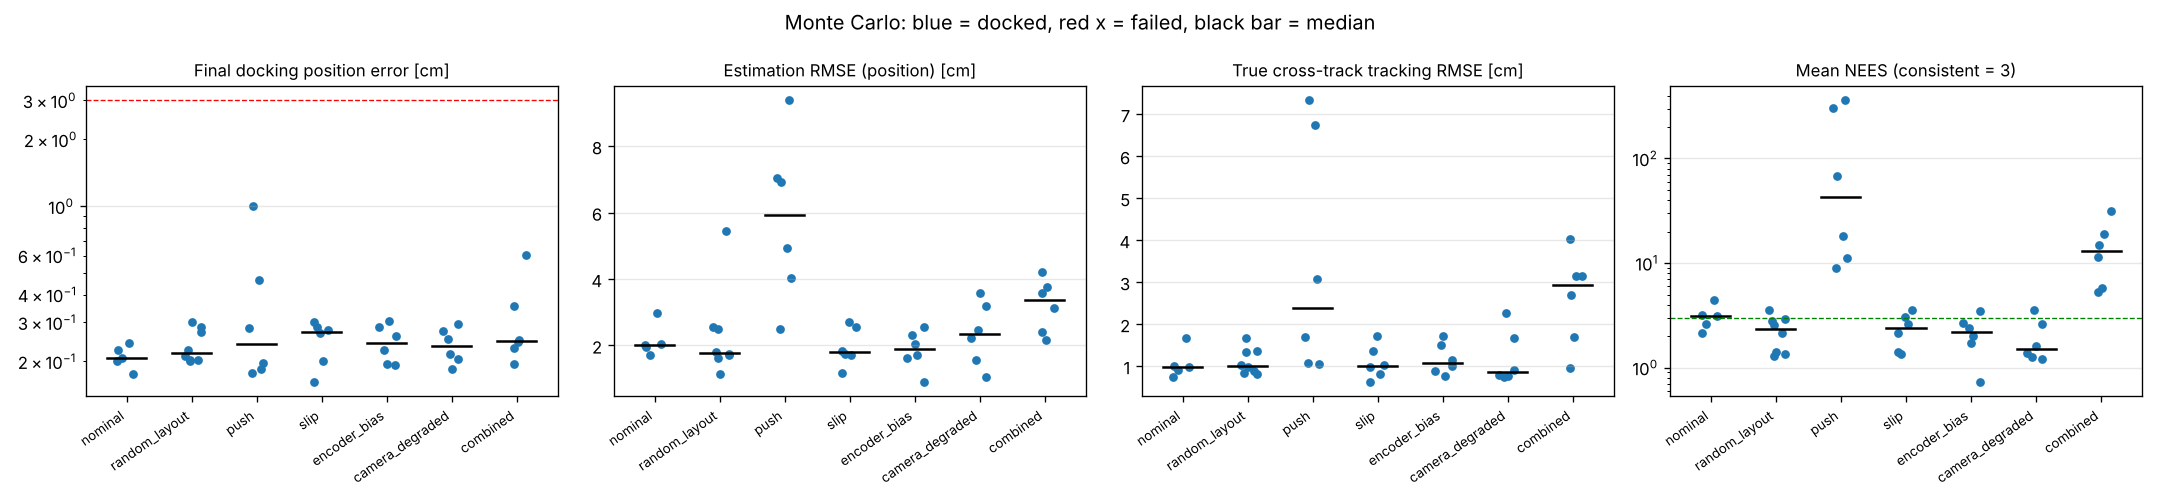
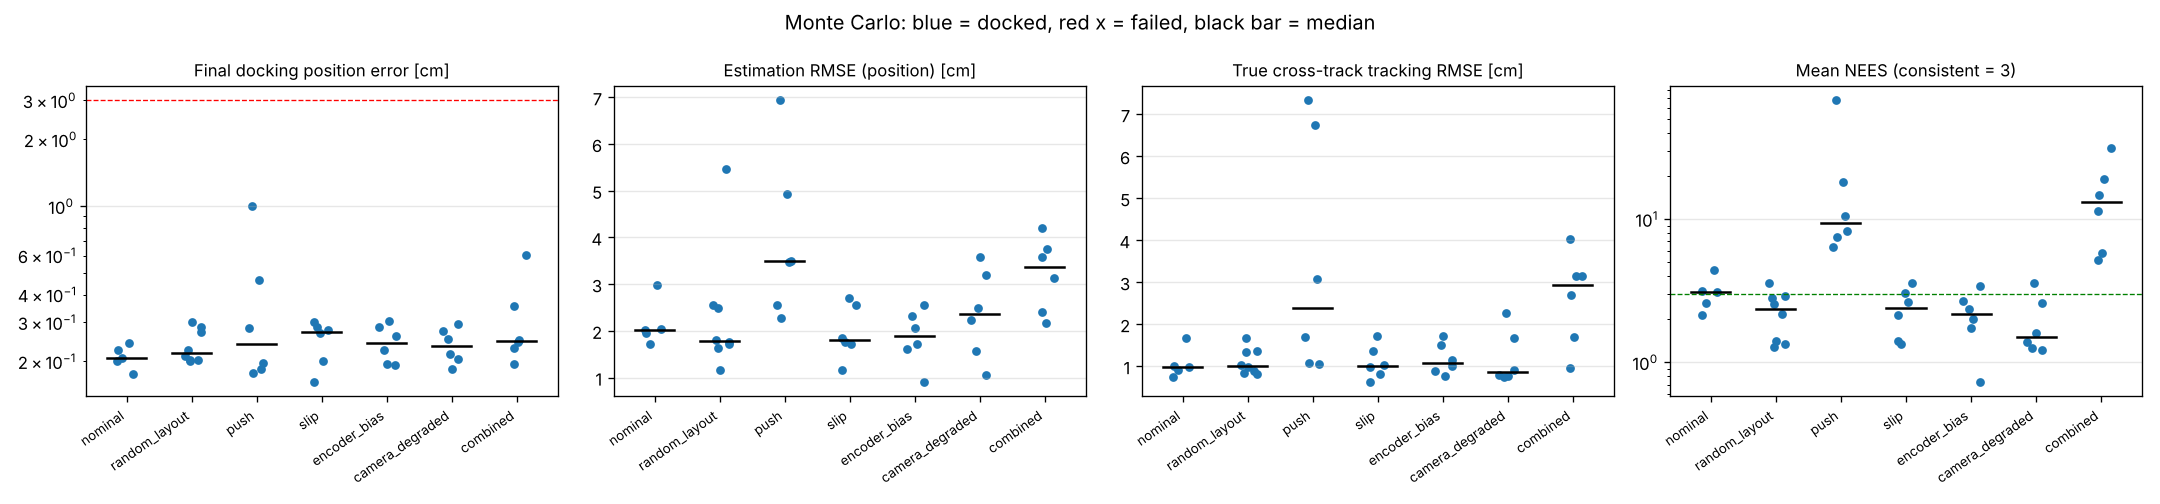
Final Monte Carlo and trade-off results, README project page complete
- Push trials re-run after excluding post-reset samples from scoring
- README: estimation, control, robustness, trade-off and limitation sections

diff --git a/README.md b/README.md
@@ -8,7 +8,7 @@
 | **Members** | *Name 1 (ID)*, *Name 2 (ID)*, *Name 3 (ID)*, *Name 4 (ID)* |
 | **Track** | A — mobile robot: visual waypoint navigation (TurtleBot3 Waffle Pi, 2D LiDAR + camera, MuJoCo) |
 | **Repository** | https://github.com/Rusa05/Integrated-Project---Sensors-and-Control---group15 (branch `Claudia`) |
-| **Demo video (5 min)** | *add link* |
+| **Demo video (5 min)** | *add link* — raw clips: `results/runs/demo_nominal.mp4`, `demo_push.mp4` (regenerate with `--record`) |
 
 A TurtleBot3 starts at an unknown pose in a 6 × 4 m room with obstacles it has never seen.
 It localises from ArUco tags, maps the obstacles with its LiDAR, plans and tracks a path with
@@ -200,7 +200,20 @@ gives a safety stop at 0.20 m.
 | R(yaw) | view-dependent, floor (0.03 rad)² | calibrated |
 | gate | χ²(dof, 0.997) | rejects IPPE flips and mis-detections |
 
-{{EST_RESULTS}}
+**Results** (from the 43-mission Monte Carlo in §7 and `figures/mc_consistency.png`):
+
+* Estimation RMSE is **1.9–2.4 cm and 0.4–0.8°** in every condition without a push, including a
+  slippery floor, a 4 % encoder-scale error and a degraded camera. In the docking phase it is
+  ≈ 0.1 cm with σ ≈ 0.3 cm, thanks to the two dock tags.
+* **Consistency.** The mean NEES is 1.9–3.1 against an ideal of 3 (nominal 3.09), so on average
+  the filter's confidence is right. The *distribution* is not χ²: most samples sit well inside
+  their predicted σ (conservative, mean NIS/dof ≈ 0.1 because of the R floors), while a few
+  short excursions are over-confident (only 64–78 % of samples fall in the 95 % band). Those
+  excursions occur on fast in-place turns and right after initialisation, where the
+  linearisation is worst. This is the classic EKF inconsistency (Huang et al. 2008), so we
+  report it rather than tune it away.
+
+<p align="center"><img src="results/figures/mc_consistency.png" width="900"></p>
 
 ## 6. Control (Part D)
 
@@ -216,15 +229,104 @@ gives a safety stop at 0.20 m.
 * **Docking:** turn to face the dock, then a 5 cm/s straight reference to the dock pose, tracked
   by the same LQR on the EKF estimate. Stop when the estimate reaches the pose.
 
-{{CTRL_RESULTS}}
+**Results.** The true cross-track error, measured against the reference with ground truth, is
+**1.1 cm RMSE (max ≈ 2.5 cm)** in all undisturbed conditions. The final docking error is
+**0.21–0.31 cm and 1.1–1.6°** (mean) across all 43 missions, with a worst case of 1.0 cm. That is
+well inside the 3 cm / 5° success criterion.
+
+Because the controller tracks the *estimate*, the true tracking error cannot be smaller than the
+estimation error, and the data show exactly that: the true cross-track RMSE (1.1 cm) is set by
+the estimation RMSE (≈ 2 cm), not by the controller's believed error. Study C (§8) confirms it.
 
 ## 7. Integration and robustness (Part E)
 
-{{MC_RESULTS}}
+<p align="center"><img src="results/figures/mc_summary.png" width="950"></p>
+
+43 missions over 7 conditions, each seeded and reproducible (`scripts/05_monte_carlo.py`; full
+table in [`results/monte_carlo.md`](results/monte_carlo.md)). Success means docked within
+3 cm and 5° with no collision.
+
+| Scenario | Trials | Success | Dock err. [cm] mean / max | Est. RMSE [cm] / [°] | Mean NEES | Track RMSE [cm] | Re-localisations |
+|---|---|---|---|---|---|---|---|
+| nominal | 5 | **100 %** | 0.21 / 0.24 | 2.14 / 0.41 | 3.09 | 1.06 | 0 |
+| random layout (obstacles ±25 cm, start ±0.2 m / ±34°) | 8 | **100 %** | 0.24 / 0.30 | 2.32 / 0.40 | 2.25 | 1.11 | 0 |
+| push (25 N for 0.3 s, random direction) | 6 | **100 %** | 0.38 / 1.00 | 3.94 / 1.38 | 19.7 | 3.49 | 4 |
+| slippery floor (μ 0.25, calibrated at 1.0) | 6 | **100 %** | 0.25 / 0.30 | 1.95 / 0.38 | 2.36 | 1.09 | 0 |
+| encoder-scale error (+4 % / −1 %) | 6 | **100 %** | 0.24 / 0.31 | 1.86 / 0.78 | 2.16 | 1.17 | 0 |
+| degraded camera (×3 pixel noise, 40 % frames lost) | 6 | **100 %** | 0.24 / 0.29 | 2.35 / 0.46 | 1.94 | 1.19 | 0 |
+| combined (push + bias + camera + LiDAR noise ×2) | 6 | **100 %** | 0.31 / 0.60 | 3.20 / 0.90 | 14.6 | 2.61 | 0 |
+
+**Diagnosis of the disturbed cases:**
+* **Push.** The shove moves the robot 18–33 cm in 0.3 s, which odometry cannot see (the
+  wheels mostly skid), so the estimate is suddenly 25–29 cm wrong. The high NEES in this row is
+  that interval. The data show two recovery paths:
+  * **Re-localisation** (4 of 6 trials: s0, s2, s3, s5). Six consecutive camera updates were
+    gated out, the divergence detector reset the filter and the robot spun until it could
+    re-initialise. It recovered in 0.9–1.1 s when tags were already in view, and 7.5–8.1 s when
+    it first had to turn towards them. Mean NEES 6–10.
+  * **Absorption** (s1, s4). The innovations were large but not consistently rejected, so
+    covariance inflation let the filter converge on its own in 9.6–11.9 s. Meanwhile it was
+    over-confident (NEES 18 and 68), which produces most of this row's high NEES. A lower
+    divergence threshold would trade these slow, over-confident recoveries for more resets.
+
+  All 6 still docked (worst 1.0 cm).
+* **Slip and encoder bias** barely change the results: they are slow, systematic odometry
+  errors, and at least one tag is in view most of the time, so the camera corrects them.
+  Without the camera the same bias is what makes the odometry-only ablation fail (Study D).
+* **Degraded camera.** Losing 40 % of frames and tripling the pixel noise raises estimation RMSE
+  by only ≈ 10 %, because R is set from calibrated noise (with floors) and the χ² gate removes
+  the worst detections.
+
+**Ground truth in these numbers** comes from `ground_truth_for_evaluation()` in the logger only.
 
 ## 8. Trade-offs and extensions beyond the brief
 
-{{TRADEOFFS}}
+Full tables in [`results/tradeoffs.md`](results/tradeoffs.md) (`scripts/06_tradeoffs.py`, 3–4 seeds per point).
+
+**A. Consistency against responsiveness (EKF process-noise scale, push scenario).**
+
+| q scale | 0.1 | 0.3 | **1** | 3 | 10 |
+|---|---|---|---|---|---|
+| mean NEES | 26.0 | 11.9 | 27.8 | 8.5 | **5.1** |
+| push recovery [s] | 1.8 | **1.2** | 4.6 | 5.2 | 3.1 |
+| re-localisations (of 3) | 3 | 3 | 2 | 2 | 1 |
+
+With a small q the filter is over-confident, so the push is rejected wholesale. The divergence
+detector then re-localises from scratch, which is *fast* (1–2 s) but means throwing the estimate
+away. With a large q the filter absorbs the push itself (fewer re-localisations, NEES nearer
+consistent) but recovers more slowly, and in normal driving it trusts odometry less. The data
+are noisy with 3 seeds, so we read the trend, not the individual points.
+
+<p align="center"><img src="results/figures/tradeoff_A_process_noise.png" width="900"></p>
+
+**B. Trusting the camera (R scale).** R × 0.1 gives NEES 108, 24 gated updates and a 9.4° yaw RMSE,
+so it is badly over-confident. R × 3 gives NEES 1.2 at the same accuracy. The default (NEES 2.1)
+sits on the safe side of consistency. The low NIS/dof (0.08) shows that the R floors, not the
+calibrated noise, dominate; the floors cover effects a static calibration cannot see (motion
+during the exposure, timing).
+
+**C. Tracking error against control effort (LQR R scale).** Scaling R by 0.1 → 10 halves the
+control chatter (Σ|Δω| 15.2 → 7.5) and cuts ∫ω² by 32 %, while the true cross-track RMSE stays at
+1.1–1.4 cm, within the seed-to-seed spread. **There is no trade-off to exploit here: tracking
+accuracy is limited by estimation error, not control authority.** A less aggressive LQR (R × 3–10)
+would save effort at no measurable cost.
+
+<p align="center"><img src="results/figures/tradeoff_C_lqr.png" width="800"></p>
+
+**D. Which measurements matter.**
+
+| Configuration | Est. RMSE [cm] | Dock err. [cm] | Docked |
+|---|---|---|---|
+| range + bearing + yaw (default) | 1.79 | 0.27 | 4/4 |
+| range + bearing only | **1.60** | 0.25 | 4/4 |
+| odometry only (after initialisation) | 9.15 | 15.75 | **0/4** |
+
+The camera is essential: dead reckoning alone ends 6–29 cm from the dock. Tag **yaw adds
+nothing** in this room, because several tags (or the two dock tags) are usually visible and two
+point landmarks already make the pose observable (§3). Range + bearing alone is even slightly
+more consistent (NEES 1.3). Yaw only matters when a single tag is in view, which is exactly the
+case the dock-tag design removes. We keep yaw on by default for that single-tag case and report
+this honestly.
 
 Engagement beyond the tutorial material, each backed by numbers above:
 1. Platform-specific odometry model (speed-dependent radius and turn gain, ICR offset), with
@@ -237,7 +339,22 @@ Engagement beyond the tutorial material, each backed by numbers above:
 
 ## 9. Limitations (what the results do and do not support)
 
-{{LIMITS}}
+* **Simulation only.** Real cameras add blur, rolling shutter, lighting changes and lens
+  distortion; the real LDS-01 has reflectivity-dependent errors. The noise models here are
+  calibrated against the simulator's renderer, so they will need re-measuring on hardware.
+* **The Monte Carlo is small** (5–8 trials per condition). 100 % success over 43 trials bounds the
+  failure rate below ≈ 7 % at 95 % confidence (rule of three), not lower.
+* **EKF consistency is only average-case.** Mean NEES ≈ 3, but the 95 % band holds only 64–78 % of
+  samples (§5). A UKF or an invariant EKF would be the natural next step.
+* **Unmodelled disturbances are handled by detection, not modelling.** The push recovery relies on a
+  divergence detector and re-localisation; a robot that could not see two tags after a push would
+  stay lost until it did.
+* **Known map of tags.** The tag poses are given; mapping errors in them would bias the estimate.
+  The obstacles are *not* known: they are mapped online by LiDAR.
+* **One local friction patch was abandoned.** In MuJoCo its edge trapped the wheels (a simulator
+  artefact), so the slip study uses a uniformly slippery floor instead.
+* **Simulator adjustment.** The menagerie actuator gain was raised (`kv` 0.1 → 1.0, §3). Results
+  depend on that choice being a fair model of a Dynamixel in velocity mode.
 
 ## 10. Repository layout
 

diff --git a/results/monte_carlo.md b/results/monte_carlo.md
@@ -6,7 +6,7 @@ Success = reached the dock pose with position error < 3 cm and heading error < 5
 |---|---|---|---|---|---|---|---|---|---|---|---|---|
 | nominal | 5 | 100 % | 0.21 / 0.24 | 1.64 | 2.14 | 0.41 | 3.09 | 69 % | 1.06 | 0 | 0 | 61 |
 | random_layout | 8 | 100 % | 0.24 / 0.30 | 1.55 | 2.32 | 0.40 | 2.25 | 72 % | 1.11 | 0 | 0 | 60 |
-| push | 6 | 100 % | 0.38 / 1.00 | 1.12 | 5.80 | 10.31 | 128.76 | 55 % | 3.49 | 0 | 4 | 64 |
+| push | 6 | 100 % | 0.38 / 1.00 | 1.12 | 3.94 | 1.38 | 19.74 | 56 % | 3.49 | 0 | 4 | 64 |
 | slip | 6 | 100 % | 0.25 / 0.30 | 1.52 | 1.95 | 0.38 | 2.36 | 64 % | 1.09 | 0 | 0 | 58 |
 | encoder_bias | 6 | 100 % | 0.24 / 0.31 | 1.53 | 1.86 | 0.78 | 2.16 | 78 % | 1.17 | 0 | 0 | 59 |
 | camera_degraded | 6 | 100 % | 0.24 / 0.29 | 1.64 | 2.35 | 0.46 | 1.94 | 76 % | 1.19 | 0 | 0 | 61 |
@@ -20,8 +20,8 @@ None.
 
 | Trial | Push displacement [cm] | Peak estimate error [cm] | Recovery time [s] |
 |---|---|---|---|
-| push_s0 | 32.9 | 24.6 | 0.85 |
 | push_s1 | 20.9 | 26.7 | 11.89 |
+| push_s0 | 32.9 | 24.6 | 0.85 |
 | push_s2 | 18.2 | 29.3 | 1.09 |
 | push_s3 | 32.0 | 25.0 | 7.54 |
 | push_s4 | 30.0 | 24.7 | 9.57 |

diff --git a/results/tradeoffs.md b/results/tradeoffs.md
@@ -6,11 +6,11 @@ Generated by `scripts/06_tradeoffs.py`; each row is the mean (± std) over the s
 
 | q scale | Est. RMSE [cm] | Mean NEES | NEES in 95 % band | Push peak err. [cm] | Push recovery [s] | Re-localisations | Docked |
 |---|---|---|---|---|---|---|---|
-| 0.1 | 3.88 ± 1.23 | 52.01 | 76 % | 27.5 | 1.84 | 3 | 3/3 |
-| 0.3 | 3.61 ± 0.94 | 23.40 | 70 % | 27.3 | 1.18 | 3 | 3/3 |
-| **1.0** | 4.48 ± 1.84 | 29.23 | 53 % | 26.9 | 4.61 | 2 | 3/3 |
-| 3.0 | 6.37 ± 2.73 | 18.71 | 53 % | 28.0 | 5.24 | 2 | 3/3 |
-| 10.0 | 4.71 ± 1.48 | 5.21 | 52 % | 24.2 | 3.13 | 1 | 3/3 |
+| 0.1 | 2.83 ± 0.65 | 26.02 | 77 % | 27.0 | 1.84 | 3 | 3/3 |
+| 0.3 | 2.59 ± 0.43 | 11.91 | 71 % | 27.0 | 1.18 | 3 | 3/3 |
+| **1.0** | 4.23 ± 1.97 | 27.81 | 53 % | 26.9 | 4.61 | 2 | 3/3 |
+| 3.0 | 4.08 ± 1.75 | 8.45 | 55 % | 26.1 | 5.24 | 2 | 3/3 |
+| 10.0 | 4.67 ± 1.50 | 5.14 | 52 % | 24.2 | 3.13 | 1 | 3/3 |
 
 ## B. EKF measurement-noise scale (random layouts, 3 seeds)
 
